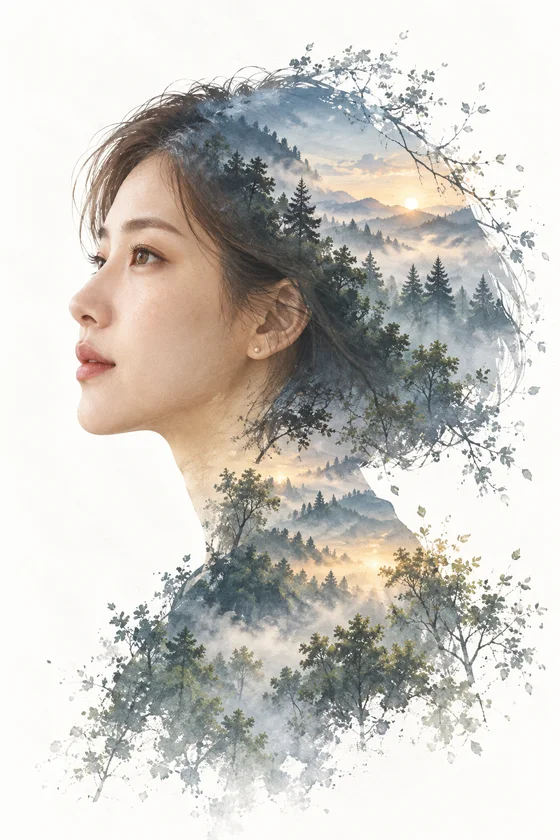
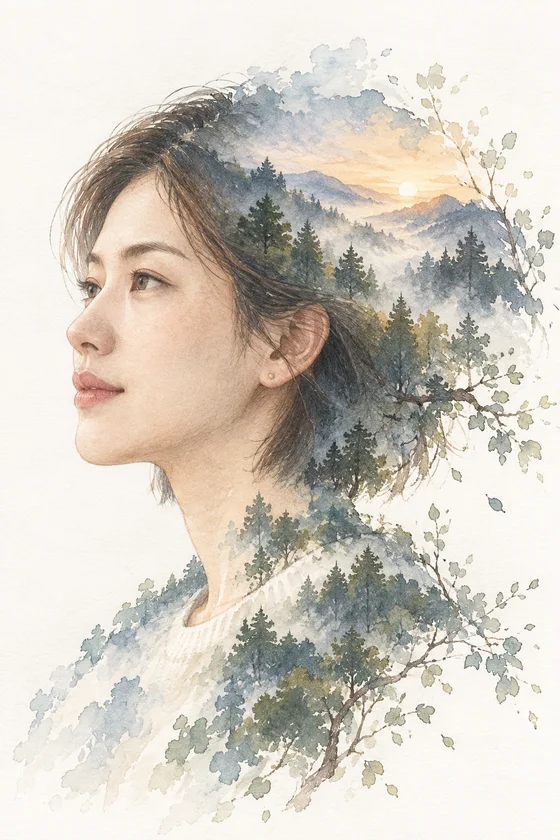
Illustrate the face in forest double-exposure portraits

diff --git a/docs/forest-illustration-review-2026-10-17.md b/docs/forest-illustration-review-2026-10-17.md
@@ -1,0 +1,27 @@
+# 숲 이중노출 얼굴의 그림체 수정
+
+2026-10-17. 사용자의 “얼굴 더 그림처럼 보이게 해줘” 요청을 반영해 `forest-double-exposure`의 공개 문구와 결과·썸네일을 수정했다.
+
+## 변경과 입력
+
+얼굴도 처음부터 손으로 그리도록 지시하고, 피부의 부드러운 색면·수채화 번짐·종이 결과 코·입술·눈의 색연필 선을 명시했다. 사진 같은 피부·눈·입술 광택과 세밀한 모공 표현은 줄이도록 했다. 머리카락과 숲·산도 같은 수채화·색연필 매체로 연결한다.
+
+기존의 AI 생성 정면 인물 원본을 그대로 사용했다. 현재 공개된 원본 WebP 한 장과 수정한 공개 프롬프트만 내장 `image_gen` 도구에 전달했다. 이전 변환 결과나 외부 스타일 이미지를 첨부하지 않았고 후속 지시나 재시도는 없었다. 정면 사진 입력 안내와 옆모습 재해석 방식, 항목 ID와 등록 순서는 유지했다.
+
+[정면 원본](../assets/images/forest-double-exposure.reference.webp) · [수정 결과](../assets/images/forest-double-exposure.webp)
+
+## 결과 검토
+
+이전 결과보다 피부가 수채화 색면과 종이 결로 표현되고, 코·입·귀와 머리카락 주변에 그린 선이 드러난다. 얼굴과 숲·산의 수채화 표현이 이어지며 차가운 파랑·이끼색과 따뜻한 새벽빛, 밝은 여백을 유지했다. 글자·로고·워터마크는 보이지 않는다.
+
+눈과 머리카락에는 여전히 세부 표현이 남아 있어 완전한 단색 실루엣으로 설명하지 않는다. 같은 정면 사진을 새로 변환했으므로 머리 방향과 얼굴·숲의 구도는 이전 결과와 완전히 같지 않다. 보이지 않던 옆얼굴은 생성 모델의 재해석이며 얼굴의 정확한 복원이 아니다. 이 내용을 현재 `exampleNote`에 표시했다.
+
+원본과 결과는 1024×1536이고 썸네일은 560×840이다. 결과 전체를 자르거나 별도 보정하지 않고 WebP로 변환했으며 썸네일만 비율에 맞게 축소했다. 다른 사진에서의 재현성은 검증하지 않았다.
+
+## 이력
+
+[수정 프롬프트·실제 입력·파일 해시](image-generation-2026-10-17-forest-illustration.json)에 현재 결과를 기록했다. 이전 결과·프롬프트의 파일 해시와 Git 기준 커밋을 함께 보관한다. [최초 등록 기록](image-generation-2026-10-17-aesthetic.json)은 당시 사실을 유지하며, 그 결과·썸네일 경로와 해시는 최초 등록 커밋의 파일에 해당한다.
+
+## 검증
+
+`npm run check`를 실행해 단위·데이터 검사 14개, 22개 공유 페이지 빌드와 데스크톱·모바일 브라우저 검사 10개를 모두 통과했다. 다른 21개 카탈로그 항목과 원본 이미지·항목 ID·등록 순서를 유지했으며, 공개 프롬프트와 실제 도구 입력, 원본·결과·썸네일의 파일 해시를 확인했다.

diff --git a/README.md b/README.md
@@ -104,6 +104,8 @@ node scripts/serve.mjs --dist --base /prompt-gallery/ --port 4174
 
 2026-10-17 사용자가 선택한 숲 이중노출과 풍경 목판화를 상단에 추가했습니다. 숲 이중노출은 정면 인물 사진을 옆모습 실루엣으로 재해석하며 측면 사진을 따로 요구하지 않습니다. 두 항목 모두 서로 다른 새 AI 원본 한 장과 공개 프롬프트만으로 생성했습니다. [2종 등록 검토](docs/aesthetic-prompts-review-2026-10-17.md)와 [실제 입력·파일 해시](docs/image-generation-2026-10-17-aesthetic.json)를 확인할 수 있습니다.
 
+같은 날 숲 이중노출의 얼굴을 더 그림처럼 보이게 해 달라는 요청을 반영했습니다. 공개 문구에 피부의 수채화 색면·종이 결과 색연필 선을 명시하고, 같은 정면 원본 한 장으로 새 결과와 썸네일을 생성했습니다. [수정 검토](docs/forest-illustration-review-2026-10-17.md)와 [수정 문구·실제 입력·파일 해시](docs/image-generation-2026-10-17-forest-illustration.json)를 보관합니다.
+
 2026-10-16 사진 중심의 깜찍한 흑백 두들을 상단에 추가했습니다. 큰 머리·작은 몸의 캐릭터와 가벼운 펜선으로 수정한 최종 v3를 게시합니다. 예시는 두들 스타일 참고와 후속 편집을 거친 결과이고, 공개 문구는 인물 사진 한 장용으로 정리했습니다. 이 차이를 상세에 표시했습니다. [게시 검토](docs/doodle-review-2026-10-16.md)와 [세 단계 실제 입력·파일 해시](docs/image-generation-2026-10-16-doodle.json)를 보관합니다.
 
 2026-10-16 사용자 피드백으로 만든 밝은 임파스토 유화를 상단에 추가했습니다. 승인된 결과는 기존 유화, 원본 사진과 밝은 꽃 그림을 함께 참고해 만든 이미지입니다. 후속 요청으로 공개 문구와 첨부 안내를 인물·반려동물·풍경·건물·꽃·음식·사물 사진용으로 확장했습니다. 기존 인물 예시는 유지하고 현재 범용 문구와 생성 조건이 다름을 상세에 표시했습니다. [등록 검토](docs/bright-impasto-review-2026-10-16.md), [실제 입력·중간 단계·파일 해시](docs/image-generation-2026-10-16-bright-impasto.json), [공개 문구 수정 기록](docs/bright-impasto-prompt-revision-2026-10-16.json)을 보관합니다.

diff --git a/docs/aesthetic-prompts-review-2026-10-17.md b/docs/aesthetic-prompts-review-2026-10-17.md
@@ -1,5 +1,7 @@
 # 숲 이중노출·풍경 목판화 2종 등록 검토
 
+후속 수정: 숲 이중노출은 사용자 요청으로 얼굴의 수채화·색연필 표현을 강화한 새 결과로 교체했다. 현재 문구와 예시는 [그림체 수정 검토](forest-illustration-review-2026-10-17.md)와 [새 생성 기록](image-generation-2026-10-17-forest-illustration.json)을 따른다. 아래는 최초 등록 당시의 기록이다.
+
 2026-10-17. 사용자가 조사 후보 중 2번과 8번을 선택해 신규 두 항목을 추가했다. 기존 20개 항목의 내용과 상대 순서는 유지하고, 요청 순서대로 `forest-double-exposure`(-16), `ukiyo-e-landscape`(-15)를 상단에 둔다. 총 공개 항목은 22개다.
 
 각 항목마다 다른 AI 원본을 새로 만들고, 그 한 장과 최종 공개 프롬프트만 내장 `image_gen` 도구에 전달했다. 외부 스타일 예시는 도구에 첨부하지 않았고 변환 재시도나 후속 편집은 없었다. 전체 이미지를 자르거나 보정하지 않고 WebP로 변환하고, 썸네일만 비율을 유지해 축소했다.

diff --git a/docs/README.md b/docs/README.md
@@ -10,6 +10,8 @@
 
 ## 생성 이력과 참고 자료
 
+- [숲 이중노출 얼굴 그림체 수정 검토](forest-illustration-review-2026-10-17.md)
+- [숲 이중노출 그림체 수정 실제 입력과 파일 해시](image-generation-2026-10-17-forest-illustration.json)
 - [2026-10-17 숲 이중노출·풍경 목판화 등록 검토](aesthetic-prompts-review-2026-10-17.md)
 - [숲 이중노출·풍경 목판화 실제 입력과 파일 해시](image-generation-2026-10-17-aesthetic.json)
 - [예쁘고 감각적인 사진 변환 후보 조사](prompt-research-aesthetic-2026-10-17.md)
